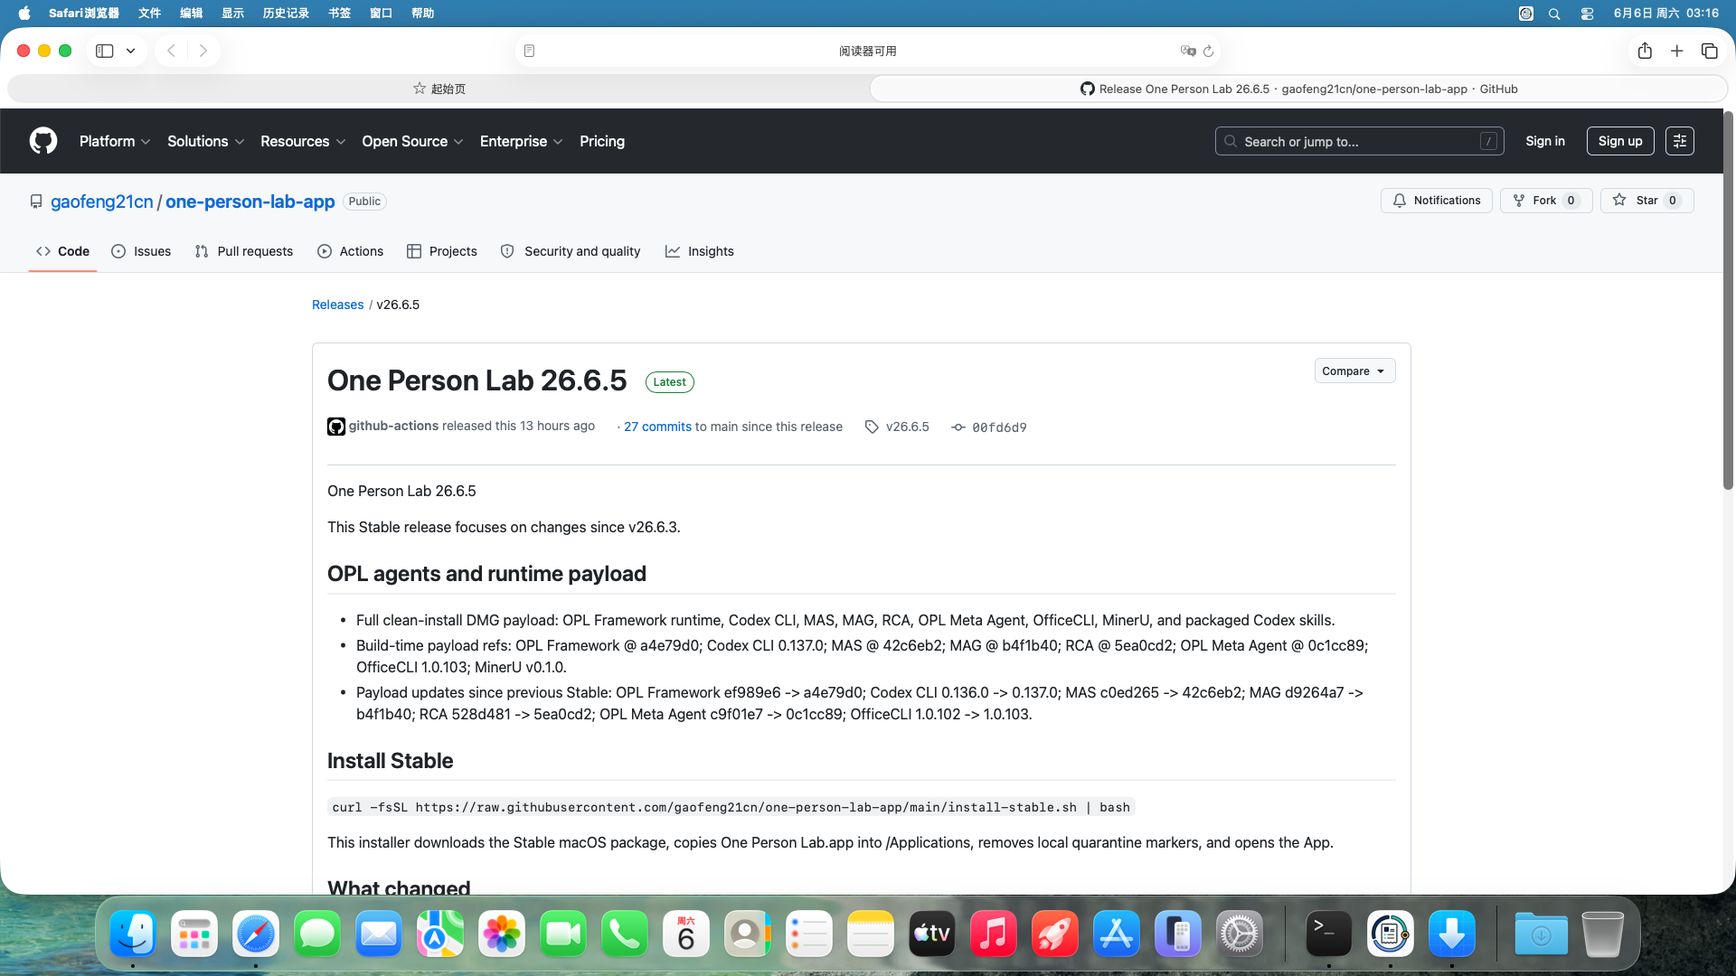
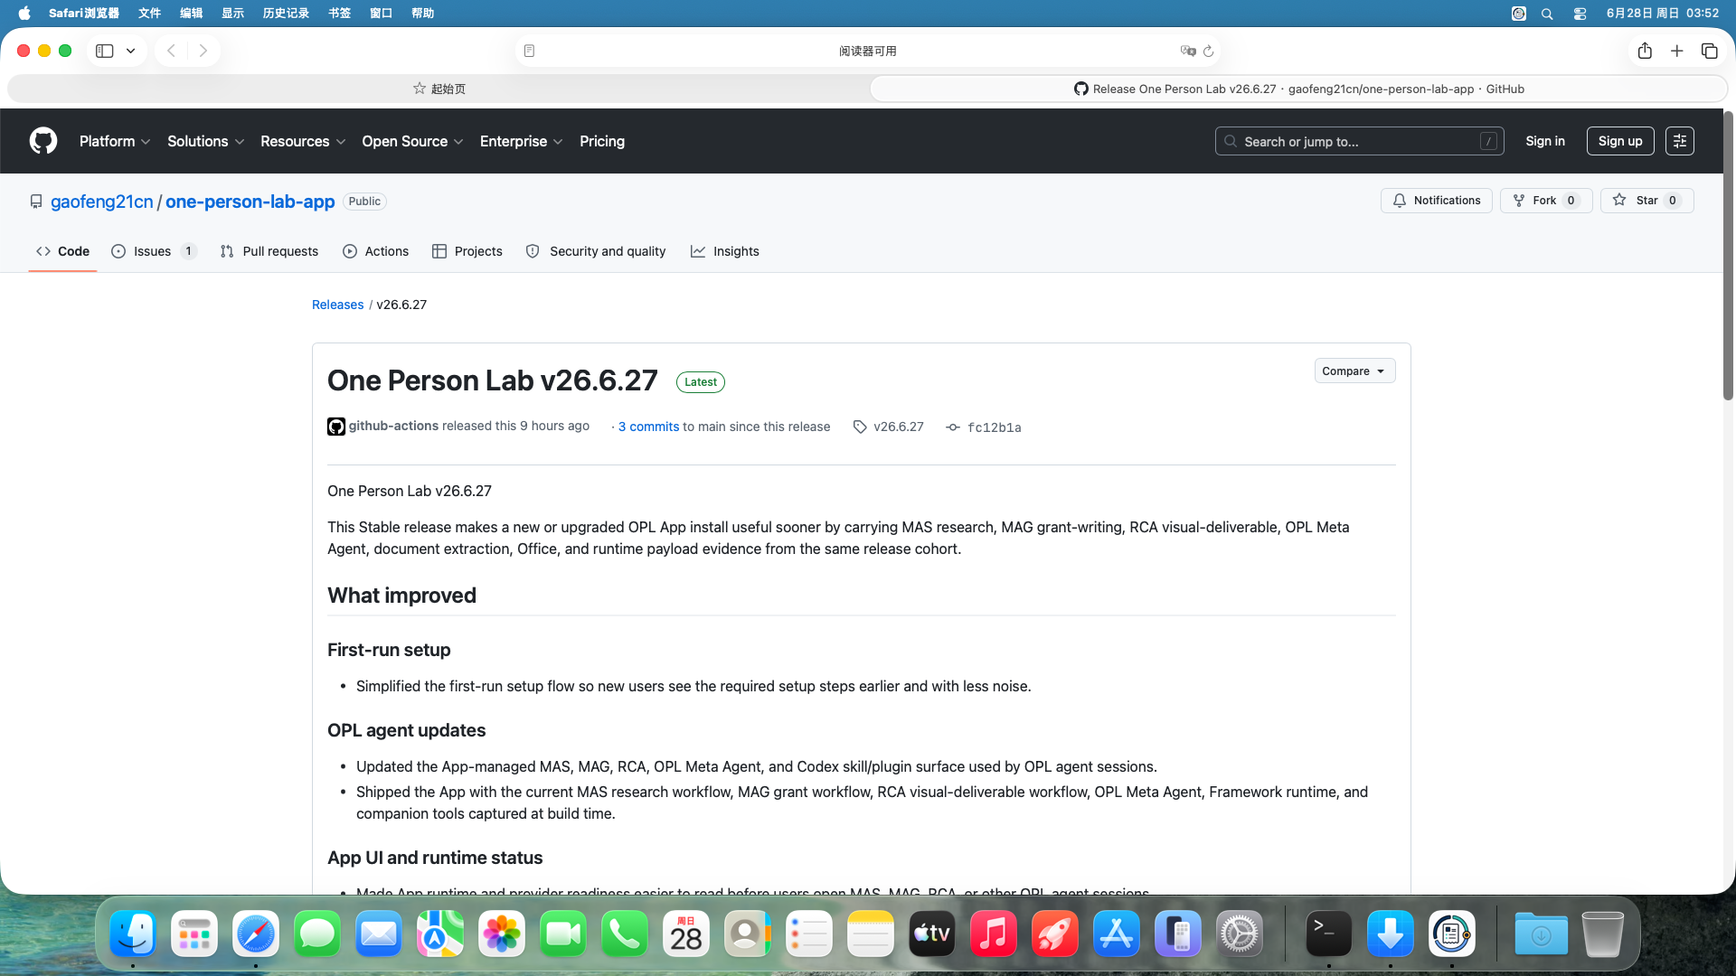
docs: refresh macos install release guide

diff --git a/docs/user-guides/site/index.html b/docs/user-guides/site/index.html
@@ -275,14 +275,14 @@
           <div>
             <p class="eyebrow">macOS 首次安装与首启</p>
             <h1>One Person Lab App 首次安装图文教程</h1>
-            <p class="lede">医生、PI、课题负责人；不要求计算机基础。本文以 macOS App 首次启动为主线，说明如何下载、安装、配置 One Person Lab，并通过 Research Foundry / Med Auto Science 发起首次科研任务。</p>
+            <p class="lede">医生、PI、课题负责人；不要求计算机基础。本文以 macOS App 首次启动为主线，说明如何下载、安装、配置 One Person Lab，并从科研、基金、演示或写书入口开始工作；下文以 Research Foundry / Med Auto Science 的首次科研任务为例。</p>
             <div class="cta-row">
               <a class="button" href="https://github.com/gaofeng21cn/one-person-lab-app/releases/latest">下载最新版本</a>
               <a class="button secondary" href="../macos-app-install-slides.pdf">图文 PDF</a>
               <a class="button secondary" href="../macos-app-install-slides.pptx">图文 PPTX</a>
               <a class="button secondary" href="../macos-app-install-detailed-guide.pdf">查看详细 PDF</a>
             </div>
-            <div class="command" aria-label="稳定版一行安装命令"><code>curl -fsSL https://raw.githubusercontent.com/gaofeng21cn/one-person-lab-app/main/install-stable.sh | bash</code></div>
+            <div class="command" aria-label="稳定版一行安装命令"><code>curl -fsSL https://raw.githubusercontent.com/gaofeng21cn/one-person-lab-app/main/install.sh | bash -s -- --stable-macos-install --yes</code></div>
           </div>
           <img class="hero-image" src="../assets/05-opl-ready-research-entry.png" alt="One Person Lab 科研入口截图" />
         </div>
@@ -306,9 +306,9 @@
         <aside>
           <div class="callouts">
             <h3>本页重点</h3>
-            <ul class=""><li>从 GitHub Releases latest 页面下载。</li><li>最简单命令：install-stable.sh。</li><li>首次安装建议使用 Full 版 DMG。</li><li>标准 DMG 适合已安装用户和后续更新。</li></ul>
+            <ul class=""><li>从 GitHub Releases latest 页面下载。</li><li>最简单命令：install-stable.sh。</li><li>首次安装建议使用 Full 版 DMG。</li><li>需要轻量 App 包时可显式选择标准 DMG。</li></ul>
           </div>
-          <ul class="notes"><li>最新版本页面：<a href="https://github.com/gaofeng21cn/one-person-lab-app/releases/latest">https://github.com/gaofeng21cn/one-person-lab-app/releases/latest</a></li><li>最简单的稳定版安装命令：<code>curl -fsSL https://raw.githubusercontent.com/gaofeng21cn/one-person-lab-app/main/install-stable.sh | bash</code>。</li><li>稳定安装器会下载 latest Full DMG、复制到 Applications，并尽量清理 macOS quarantine，减少首次启动时反复授权。</li><li>Full 版 DMG 是首次安装资产，包含 OPL Framework runtime、MAS/MAG/RCA、officecli、mineru-open-api 与推荐 skills 等 payload。</li><li>标准 mac-arm64 DMG 体积更小，适合已经安装过 One Person Lab App 的用户和后续自动更新。</li></ul>
+          <ul class="notes"><li>最新版本页面：<a href="https://github.com/gaofeng21cn/one-person-lab-app/releases/latest">https://github.com/gaofeng21cn/one-person-lab-app/releases/latest</a></li><li>最简单的稳定版安装命令：<code>curl -fsSL https://raw.githubusercontent.com/gaofeng21cn/one-person-lab-app/main/install.sh | bash -s -- --stable-macos-install --yes</code>。</li><li>稳定安装器默认下载 latest Full DMG、复制到 Applications，并尽量清理 macOS quarantine，减少首次启动时反复授权；需要轻量标准包时可追加 <code>--standard</code>。</li><li>Full 版 DMG 是首次安装资产，包含 OPL Framework runtime、MAS/MAG/RCA、officecli、mineru-open-api 与推荐 skills 等 payload。</li><li>标准 mac-arm64 DMG 体积更小，适合已经安装过 One Person Lab App 的用户和后续自动更新。</li></ul>
         </aside>
       </article>
     
@@ -364,15 +364,15 @@
       <article class="step" id="research-entry">
         <div>
           <h2>5. 进入科研入口</h2>
-          <p>准备完成后，在主界面选择科研入口，进入 Research Foundry / Med Auto Science 工作流。</p>
+          <p>准备完成后，根据目标选择科研、基金、演示或写书入口。本教程以科研入口为例，进入 Research Foundry / Med Auto Science 工作流。</p>
           <img class="step-image" src="../assets/05-opl-ready-research-entry.png" alt="5. 进入科研入口" loading="lazy" />
         </div>
         <aside>
           <div class="callouts">
             <h3>本页重点</h3>
-            <ul class=""><li>通过 Research Foundry / Med Auto Science 进入 MAS。</li><li>用户不需要另行获取 MAS 分发资产。</li></ul>
+            <ul class=""><li>通过 Research Foundry / Med Auto Science 进入 MAS。</li><li>基金、演示和写书入口分别对应 MAG、RCA 和 BookForge。</li><li>用户不需要另行获取这些专业 Agent 的分发资产。</li></ul>
           </div>
-          <ul class="notes"><li>MAS 通过 OPL 内的 Research Foundry / Med Auto Science 入口使用。</li><li>用户不需要另行获取 MAS 分发资产。</li></ul>
+          <ul class="notes"><li>MAS 通过 OPL 内的 Research Foundry / Med Auto Science 入口使用。</li><li>基金、演示和写书入口分别对应 MAG、RCA 和 BookForge。</li><li>用户不需要另行获取这些专业 Agent 的分发资产。</li></ul>
         </aside>
       </article>
     
@@ -380,13 +380,13 @@
       <article class="step" id="runtime-settings">
         <div>
           <h2>6. 确认工作目录和运行设置</h2>
-          <p>在本机运行环境中确认工作目录、Codex CLI、Temporal、更新状态和智能体模块。需要调整数据目录或运行设置时，从这里进入。</p>
+          <p>在本机运行环境中确认工作目录、Codex CLI、Temporal 和本机基础状态；在智能体与能力查看专业入口；在关于与更新查看 App 与 OPL Packages 维护状态。需要调整数据目录或运行设置时，从这里进入。</p>
           <img class="step-image" src="../assets/06-research-data-folder.png" alt="6. 确认工作目录和运行设置" loading="lazy" />
         </div>
         <aside>
           <div class="callouts">
             <h3>本页重点</h3>
-            <ul class=""><li>数据目录和运行入口从 Settings 进入。</li><li>患者数据需先脱敏，并遵守机构要求。</li></ul>
+            <ul class=""><li>数据目录和运行入口从 Settings 的本机运行环境进入。</li><li>专业 Agent 能力在智能体与能力中查看。</li><li>App 与 OPL Packages 维护状态在关于与更新中查看。</li><li>患者数据需先脱敏，并遵守机构要求。</li></ul>
           </div>
           <ul class="notes"><li>建议按一个病种或稳定研究主题建立本地 workspace，再把原始或脱敏材料集中放入工作目录。</li><li>患者数据需先脱敏，并遵守本机构数据管理要求。</li></ul>
         </aside>
@@ -426,7 +426,7 @@
     
         <section class="band" id="faq">
           <h2>常见问题</h2>
-          <ul class="faq-list"><li>下载失败：换网络后重试，或请技术支持人员确认 GitHub Release 是否可访问。</li><li>打不开 App：优先使用稳定安装命令重新安装；手动安装时确认已拖入 Applications，并按 macOS 安全提示允许打开。</li><li>访问权限未配置：联系 gflabtoken 管理员获取访问密钥，并在首启页面完成配置。</li><li>模块未就绪：在 App 的环境管理中重新检查，确认 OPL 完整安装资产与本机网络状态。</li><li>数据路径看不到：确认选择的是本机可访问的专病 workspace，或能看到其中的 <code>raw_data/</code>。</li><li>任务启动后不知道看哪里：查看运行状态页的当前阶段、下一步和需要人工确认的项目。</li></ul>
+          <ul class="faq-list"><li>下载失败：换网络后重试，或请技术支持人员确认 GitHub Release 是否可访问。</li><li>打不开 App：优先使用稳定安装命令重新安装；手动安装时确认已拖入 Applications，并按 macOS 安全提示允许打开。</li><li>访问权限未配置：联系 gflabtoken 管理员获取访问密钥，并在首启页面完成配置。</li><li>模块未就绪：在 App 的本机运行环境或关于与更新中重新检查维护状态，确认 OPL 完整安装资产与本机网络状态。</li><li>数据路径看不到：确认选择的是本机可访问的专病 workspace，或能看到其中的 <code>raw_data/</code>。</li><li>任务启动后不知道看哪里：查看运行状态页的当前阶段、下一步和需要人工确认的项目。</li></ul>
         </section>
         <section class="band" id="artifacts">
           <h2>下载附件</h2>
@@ -447,7 +447,7 @@
         </section>
         <section class="band" id="provenance">
           <h2>截图与验证来源</h2>
-          <ul class="notes"><li>截图来自 v26.6.5 的中文 1080p VM guide artifact 与同一次 VM smoke 的 App CDP 截图；PNG 保留各自原始输出尺寸，不做统一画布要求。</li><li>VM smoke 使用真实 DMG 安装到 <code>/Applications/One Person Lab.app</code>；标准版验证 GUID 输入页、Settings 和 MAS/MAG/RCA 入口可用。首启截图和 layout gate 会验证新手首屏保持简化，技术细节默认折叠。</li><li>每张截图的来源、尺寸和 SHA256 记录在 <code>macos-app-install-assets.json</code> 与生成后的 verification JSON 中。</li><li>Release、DMG、首启日志和模块状态以 App repo contracts / workflow / VM smoke artifacts 为机器真相。</li></ul>
+          <ul class="notes"><li>截图来自 v26.6.27 的中文 1080p VM guide artifact 与同一次 VM smoke 的 App CDP 截图；PNG 保留各自原始输出尺寸，不做统一画布要求。当前文案按 App contracts、安装脚本和最新 Release 面重新核对；截图只作为首启流程示意，不作为最新版本发布证据。</li><li>VM smoke 使用真实 DMG 安装到 <code>/Applications/One Person Lab.app</code>；标准版验证 GUID 输入页、Settings 和 MAS/MAG/RCA 入口可用。首启截图和 layout gate 会验证新手首屏保持简化，技术细节默认折叠。</li><li>每张截图的来源、尺寸和 SHA256 记录在 <code>macos-app-install-assets.json</code> 与生成后的 verification JSON 中。</li><li>Release、DMG、首启日志和模块状态以 App repo contracts / workflow / VM smoke artifacts 为机器真相。</li></ul>
           <p class="meta">Guide source: docs/user-guides/macos-app-install.guide.json · Screenshot manifest: docs/user-guides/macos-app-install-assets.json</p>
         </section>
       </div>

diff --git a/tests/release/app-release-boundary-cases/product-profile-and-install-exposure.ts b/tests/release/app-release-boundary-cases/product-profile-and-install-exposure.ts
@@ -391,9 +391,9 @@ test('App install exposure policy keeps skill ABI and plugin distribution separa
     }
   }
   const stableMacosInstall = installerSurfaceById.get('stable_local_authorized_macos_install');
-  assert.equal(stableMacosInstall.entrypoint, 'install-stable.sh');
-  assert.equal(stableMacosInstall.compatibility_entrypoints, undefined);
-  assert.equal(stableMacosInstall.backing_entrypoint, 'install.sh --stable-macos-install --yes');
+  assert.equal(stableMacosInstall.entrypoint, 'install.sh --stable-macos-install --yes');
+  assert.deepEqual(stableMacosInstall.compatibility_entrypoints, ['install-stable.sh']);
+  assert.equal(stableMacosInstall.backing_entrypoint, undefined);
   assert.equal(stableMacosInstall.compatibility_backing_entrypoint, undefined);
   assert.equal(stableMacosInstall.progress_source, 'github_release_dmg_copy_and_local_quarantine_diagnostics');
   assert.equal(
@@ -629,6 +629,7 @@ test('Homebrew distribution channel is transport-only and keeps OPL activation a
 
   assert.equal(homebrew.role, 'app_cask_transport_and_install_index_only');
   assert.equal(homebrew.tap, 'gaofeng21cn/one-person-lab');
+  assert.equal(homebrew.cask_install_policy.fully_qualified_cask_install, true);
   assert.equal(homebrew.must_not_own_agent_semantics, true);
   assert.equal(homebrew.must_not_write_user_codex_state, true);
   assert.equal(homebrew.user_state_activation_owner, 'opl_framework');

diff --git a/scripts/local-authorization-policy.ts b/scripts/local-authorization-policy.ts
@@ -16,8 +16,9 @@ export function assertLocalAuthorizationPolicy(policy, packageKind, name = 'loca
     || policy?.gatekeeper_required !== false
     || policy?.local_authorization_required !== true
     || policy?.quarantine_removal_required !== true
-    || policy?.install_entrypoint !== 'install-stable.sh'
-    || policy?.backing_entrypoint !== 'install.sh --stable-macos-install --yes'
+    || policy?.install_entrypoint !== 'install.sh --stable-macos-install --yes'
+    || !Array.isArray(policy?.compatibility_entrypoints)
+    || !policy.compatibility_entrypoints.includes('install-stable.sh')
   ) {
     throw new Error(`${name} must declare the Stable local-authorized macOS install policy for ${packageKind}.`);
   }
@@ -124,8 +125,8 @@ function buildPolicy(options) {
     gatekeeper_required: false,
     local_authorization_required: true,
     quarantine_removal_required: true,
-    install_entrypoint: 'install-stable.sh',
-    backing_entrypoint: 'install.sh --stable-macos-install --yes',
+    install_entrypoint: 'install.sh --stable-macos-install --yes',
+    compatibility_entrypoints: ['install-stable.sh'],
     default_package_profile: options.packageKind === 'app_full_first_install' ? 'full' : 'standard',
     user_prompt_policy: 'one_terminal_command_no_system_settings_override_expected_after_quarantine_clear',
     app_path: options.appPath,

diff --git a/tests/release/app-release-boundary-cases/workflow-release-channels/desktop-release-workflow.ts b/tests/release/app-release-boundary-cases/workflow-release-channels/desktop-release-workflow.ts
@@ -534,6 +534,9 @@ test('manual desktop release workflow supports new releases and same-tag refresh
     version_tag: '<app_or_opl_version>',
     source: 'shells/aionui Dockerfile',
     source_repository: 'https://github.com/gaofeng21cn/one-person-lab-app',
+    distribution_role: 'server_deployment_artifact_not_desktop_app_gui_shell',
+    ordinary_app_install_path: false,
+    managed_package_channel_member: false,
     required_oci_labels: {
       'org.opencontainers.image.source': 'https://github.com/gaofeng21cn/one-person-lab-app',
     },
@@ -570,7 +573,7 @@ test('manual desktop release workflow supports new releases and same-tag refresh
     module_package_publish_allowed: false,
     opl_flow_plugin_publish_allowed: false,
     framework_role: 'references_image_coordinate_only',
-    rule: 'WebUI GHCR image publish truth is App-owned; Framework may reference the image coordinate but does not own publishing.',
+    rule: 'WebUI GHCR image publish truth is App-owned server deployment artifact truth. The desktop App embeds the AionUI shell through App packaging; ordinary App users do not install this container package. Framework may reference the image coordinate but does not own publishing.',
   });
   assert.equal(
     releaseContract.release_acceleration.github_actions.first_run_vm_workflow,

diff --git a/scripts/validate-release-boundary/release-checks.ts b/scripts/validate-release-boundary/release-checks.ts
@@ -330,7 +330,7 @@ export const releaseBoundaryChecks: ReleaseBoundaryCheck[] = [
       'grant-writing and funding workflow agent',
       'visual deliverable, slide, and report graphics agent',
       'install_command',
-      'install-stable.sh | bash',
+      'install.sh | bash -s -- --stable-macos-install --yes',
     ],
     forbidden: [],
   },
@@ -702,8 +702,9 @@ export const releaseBoundaryChecks: ReleaseBoundaryCheck[] = [
     file: 'contracts/app-install-exposure-policy.json',
     required: [
       '"surface": "stable_local_authorized_macos_install"',
-      '"entrypoint": "install-stable.sh"',
-      '"backing_entrypoint": "install.sh --stable-macos-install --yes"',
+      '"entrypoint": "install.sh --stable-macos-install --yes"',
+      '"compatibility_entrypoints"',
+      '"install-stable.sh"',
       '"default_package_profile": "full"',
       '"hdiutil attach -nobrowse -readonly"',
       '"ditto"',

diff --git a/tests/release/app-release-boundary-cases/release-asset-fixtures.ts b/tests/release/app-release-boundary-cases/release-asset-fixtures.ts
@@ -30,8 +30,8 @@ export function localAuthorizationPolicy(packageKind) {
     gatekeeper_required: false,
     local_authorization_required: true,
     quarantine_removal_required: true,
-    install_entrypoint: 'install-stable.sh',
-    backing_entrypoint: 'install.sh --stable-macos-install --yes',
+    install_entrypoint: 'install.sh --stable-macos-install --yes',
+    compatibility_entrypoints: ['install-stable.sh'],
     default_package_profile: packageKind === 'app_full_first_install' ? 'full' : 'standard',
     user_prompt_policy: 'one_terminal_command_no_system_settings_override_expected_after_quarantine_clear',
     app_path: '/Applications/One Person Lab.app',

diff --git a/tests/release/app-release-boundary-cases/release-assets-and-remote-verification.ts b/tests/release/app-release-boundary-cases/release-assets-and-remote-verification.ts
@@ -321,8 +321,8 @@ test('release asset preparation preserves App-owned local authorization policy w
       gatekeeper_required: false,
       local_authorization_required: true,
       quarantine_removal_required: true,
-      install_entrypoint: 'install-stable.sh',
-      backing_entrypoint: 'install.sh --stable-macos-install --yes',
+      install_entrypoint: 'install.sh --stable-macos-install --yes',
+      compatibility_entrypoints: ['install-stable.sh'],
       codesign_status: 'passed',
       spctl_status: 'rejected_allowed_unsigned',
       quarantine_status: 'absent',

diff --git a/tests/release/app-release-boundary-cases/release-notes-fixtures.ts b/tests/release/app-release-boundary-cases/release-notes-fixtures.ts
@@ -13,7 +13,7 @@ process.stdout.write(${JSON.stringify(body)});
 `, { mode: 0o755 });
 }
 
-export const stableInstallCommand = 'curl -fsSL https://raw.githubusercontent.com/gaofeng21cn/one-person-lab-app/main/install-stable.sh | bash';
+export const stableInstallCommand = 'curl -fsSL https://raw.githubusercontent.com/gaofeng21cn/one-person-lab-app/main/install.sh | bash -s -- --stable-macos-install --yes';
 
 export function validStandardAiReleaseNotes(version) {
   const publicMarkdown = `One Person Lab v${version}

diff --git a/scripts/release-notes.ts b/scripts/release-notes.ts
@@ -31,7 +31,7 @@ export type {
 
 export { buildReleaseTitle } from './release-notes/tags.ts';
 
-const stableInstallCommand = 'curl -fsSL https://raw.githubusercontent.com/gaofeng21cn/one-person-lab-app/main/install-stable.sh | bash';
+const stableInstallCommand = 'curl -fsSL https://raw.githubusercontent.com/gaofeng21cn/one-person-lab-app/main/install.sh | bash -s -- --stable-macos-install --yes';
 
 const releaseNotesAgentRuntimeEvidenceBoundary = {
   collectComponentChangeSubjects,

diff --git a/README.md b/README.md
@@ -64,21 +64,20 @@ For macOS arm64 users who already use Homebrew, this is the shortest terminal
 path:
 
 ```bash
-brew tap gaofeng21cn/one-person-lab
-brew install --cask one-person-lab
+brew install --cask gaofeng21cn/one-person-lab/one-person-lab
 open -a "One Person Lab"
 ```
 
 Nightly builds are opt-in:
 
 ```bash
-brew install --cask one-person-lab-nightly
+brew install --cask gaofeng21cn/one-person-lab/one-person-lab-nightly
 ```
 
 For the complete first-install payload:
 
 ```bash
-brew install --cask one-person-lab-full
+brew install --cask gaofeng21cn/one-person-lab/one-person-lab-full
 open -a "One Person Lab"
 ```
 
@@ -120,7 +119,7 @@ want the full framework/module install from the terminal.
 Stable macOS users who do not want Homebrew can use the stable install helper:
 
 ```bash
-curl -fsSL https://raw.githubusercontent.com/gaofeng21cn/one-person-lab-app/main/install-stable.sh | bash
+curl -fsSL https://raw.githubusercontent.com/gaofeng21cn/one-person-lab-app/main/install.sh | bash -s -- --stable-macos-install --yes
 ```
 
 Mac-specific trust diagnostics and internal-build handling stay in the release
@@ -147,7 +146,10 @@ Daily updates are handled by Homebrew or the in-app update channel, depending on
 how the App was installed. Release asset, updater metadata, and Full
 first-install boundaries are governed by the App release guide and contracts.
 
-For Docker or server deployment, see the [Docker/WebUI install guide](https://github.com/gaofeng21cn/one-person-lab/blob/main/docs/references/current-support/opl-docker-webui-deployment.md).
+For Docker or server deployment, use the App-owned `one-person-lab-webui` GHCR
+image. It is separate from the desktop App GUI shell, which is bundled into the
+App package from the active AionUI shell, and it is not an OPL Packages module.
+See the [Docker/WebUI install guide](https://github.com/gaofeng21cn/one-person-lab/blob/main/docs/references/current-support/opl-docker-webui-deployment.md).
 
 ## What The App Does
 

diff --git a/docs/release/README.md b/docs/release/README.md
@@ -39,13 +39,17 @@ The App repository owns desktop packaging, release assets, updater metadata, rel
 | Offline runtime kit | Manual diagnostic or recovery artifact for the same Full runtime bundle payload. It is not updater-visible and is not a release-ready claim. | Runtime archive, checksums, Full manifest refs, and the same OPL bundle consumer boundary as the Full DMG. |
 | Stable promotion | Human release-owner promotion from candidate to stable/latest. | Candidate record with `status=ready_to_promote`, release readiness summary, same-cohort evidence, promote workflow output. |
 | Homebrew | Cask transport and index for standard and explicit Full first-install packages. | Published release assets, matching local authorization policy asset, tap update output, Homebrew VM smoke where required. |
-| WebUI/GHCR | App-owned image publication lane when release contract enables it. | OCI source label, package access, publish output, image smoke/evidence artifacts. |
+| WebUI/GHCR | App-owned Docker/server deployment image. It is not the desktop App GUI shell install path and is not an OPL Packages member. | OCI source label, package access, publish output, image smoke/evidence artifacts. |
 | Managed runtime/toolchain update | Framework-runner channel for runtime toolchain and managed agent packages. | OPL update runner receipts, lock/runner status, repair/rollback status, post-apply sync status. |
 
 The Stable WebUI path builds the image once in the Docker smoke lane, verifies
 the image locally, publishes that same image to GHCR, and leaves the GHCR lane
 as a summary-verifier gate. Do not add a second Stable Docker build just to
 separate smoke and publish reporting.
+
+Desktop users get the AionUI shell through the App package itself. The
+`one-person-lab-webui` container exists only for Docker/server deployment and
+release smoke evidence; Framework package workflows must not publish it.
 
 ## Preflight
 
